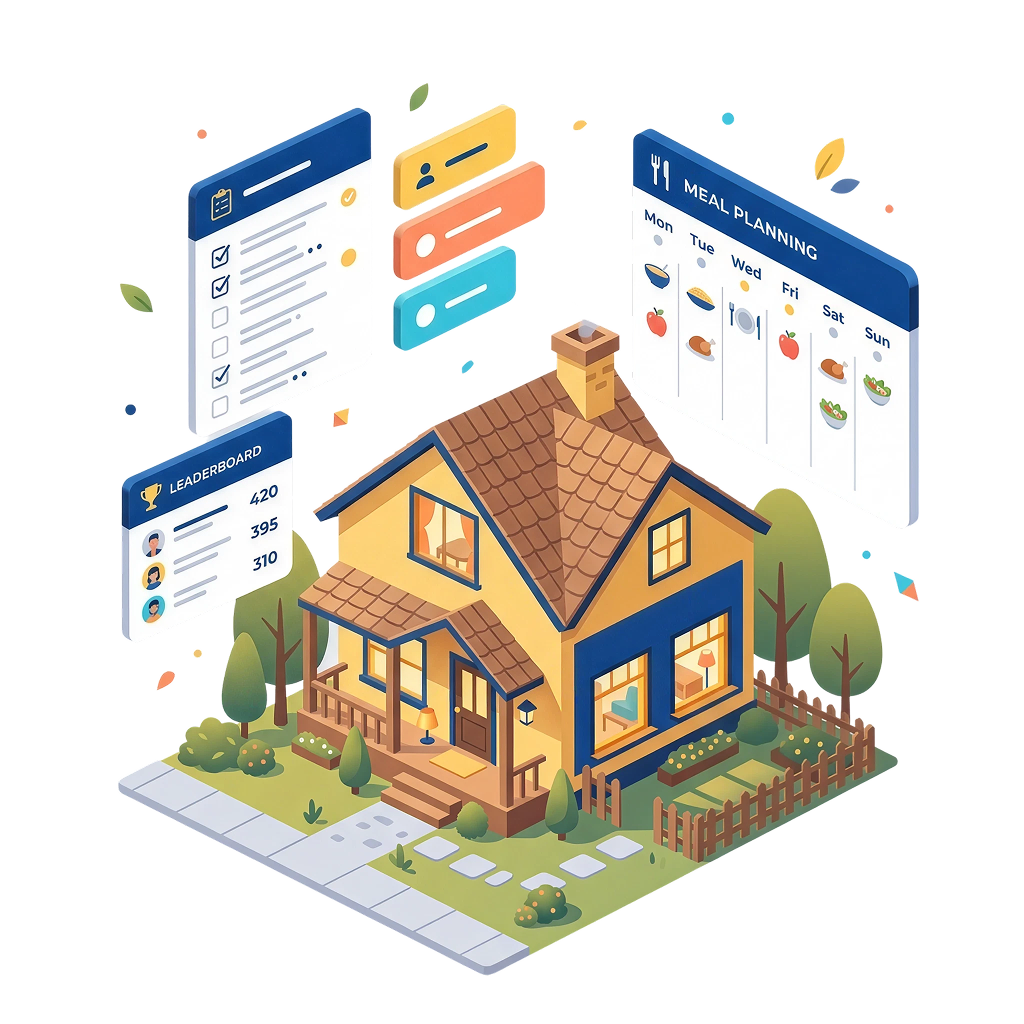
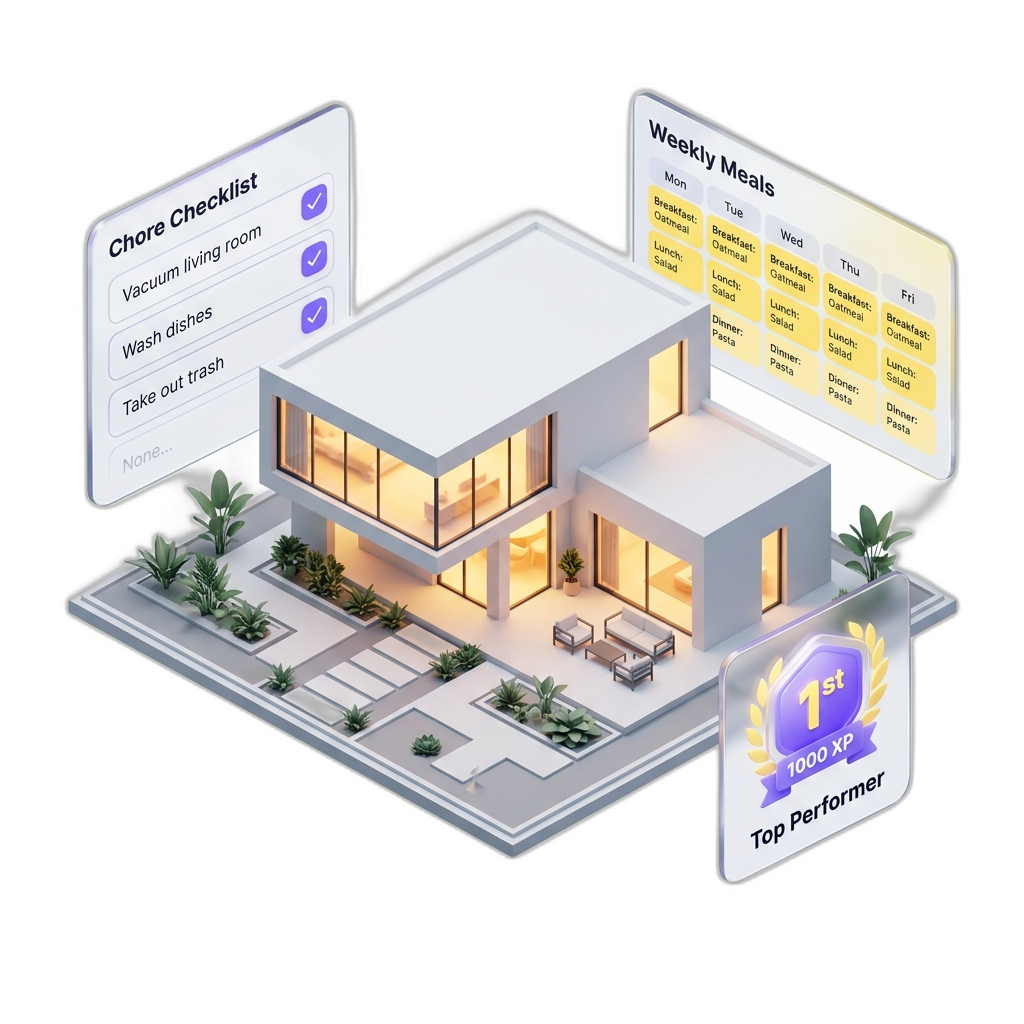
feat(assets): update landing hero illustration to brand-aligned 3D isometric transparent design

diff --git a/docs/prompts/image_prompts.md b/docs/prompts/image_prompts.md
@@ -13,6 +13,11 @@ A premium 3D isometric illustration of a minimal, aesthetic living room. Above t
 A premium 3D isometric illustration of a minimal, aesthetic kitchen island. Above the island floats a sleek, glassmorphism UI calendar showing a meal plan. The color palette must strictly follow the brand colors: bright white background, soft purple (#8c52ff) accents, and subtle yellow (#fde047) highlights. Clean lines, modern SaaS blog aesthetic, no humans, highly professional, 8k resolution.
 ```
 
+## پرامپت بنر و تصویر شاخص اصلی سایت (Landing Hero Image)
+```text
+A premium 3D isometric illustration of a sleek modern architectural minimalist smart house with warm glowing interior lights, surrounded by a stylish minimal garden and patio. Floating elegantly around the house are sleek frosted glassmorphism UI cards: a chore task checklist with purple (#8c52ff) checkmarks, a weekly meal planning schedule with soft yellow (#fde047) accents, and a gamified XP leaderboard badge. The color palette strictly adheres to DoneSpace brand colors: soft royal purple (#8c52ff), warm pastel yellow (#fde047), pristine clean white structures, translucent glassmorphism surfaces with glossy reflections. Isolated on a pure solid white background, high contrast, clean edges, modern SaaS 3D graphic style, no humans, professional 8k render.
+```
+
 ## فرمول ساخت عکسهای آینده:
 ```text
 A premium 3D isometric illustration of a minimal, aesthetic [مکان یا شیء مورد نظر]. Above the [مکان] floats a sleek, glassmorphism UI [المان رابط کاربری مثل نمودار یا پیام]. The color palette must strictly follow the brand colors: bright white background, soft purple (#8c52ff) accents, and subtle yellow (#fde047) highlights. Clean lines, modern SaaS blog aesthetic, no humans, highly professional, 8k resolution.
